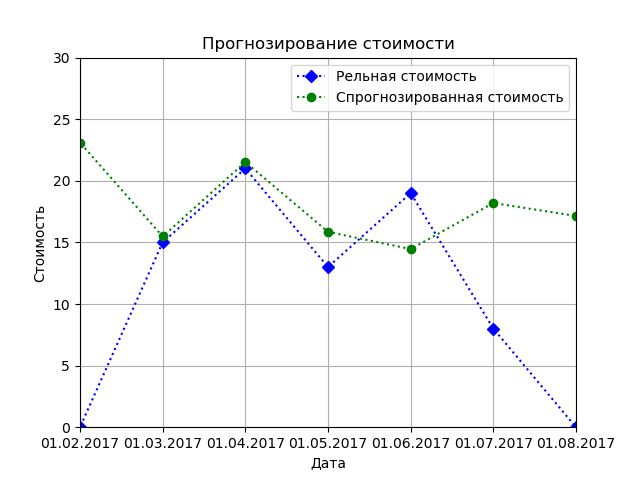
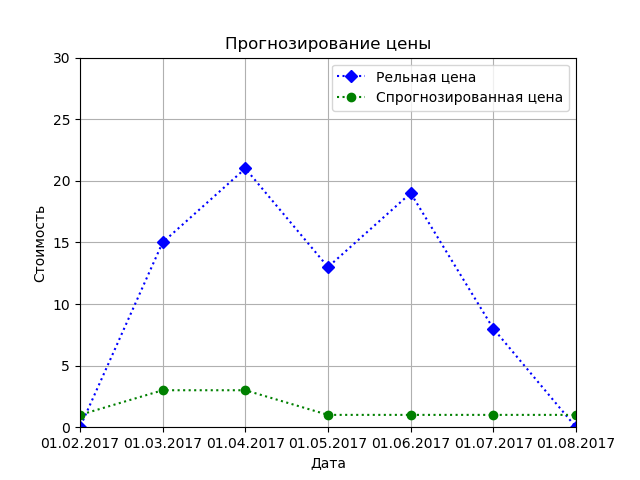
Вычисление ошибки, построение графиков влияющих факторов

diff --git a/templates/index.html b/templates/index.html
@@ -18,11 +18,15 @@
       <p>Файл успешно загружен</p>
       {% if option == '0' %}
         <p>Случайный лес</p>
+
       {% endif %}
       {% if option == '1' %}
         <p>Наивный Байес</p>
       {% endif %}
       <img src="{% static "img/forecast.png" %}">
+      <p>MAE: {{ err }}</p>
+      <img src="{% static "img/crop.png" %}">
+      <img src="{% static "img/temp.png" %}">
     {% endif %}
   </body>
 </html>

diff --git a/static/css/style.css b/static/css/style.css
@@ -6,4 +6,7 @@ form {
   background-color: #C1BCB4;
   border-radius: 5px;
   margin: 5px;
+  padding: 5px;
+  width: 300px;
+  height: 150px;
 }

diff --git a/firstapp/views.py b/firstapp/views.py
@@ -4,10 +4,7 @@ from django.conf import settings
 from django.core.files.storage import FileSystemStorage
 import csv
 import codecs
-from .result import read_file
-from .result import predicts_forest, predits_bayes
-from .result import get_date
-from .result import get_fact_cost
+from .result import read_file, predicts_forest, predits_bayes, get_date, get_fact_cost, mean_absolute_err, get_crop, get_temp
 import matplotlib.pyplot as plt
 
 def upload_file(request):
@@ -22,12 +19,20 @@ def upload_file(request):
             predict_cost = list(predicts_forest())
         else:
             predict_cost = list(predits_bayes())
+            predict_cost = [float(item) for item in predict_cost]
         output_date = get_date()
         fact_cost = get_fact_cost()
         fact_cost = [float(item) for item in fact_cost]
+        err = mean_absolute_err(fact_cost, predict_cost)
         graph(output_date, fact_cost, predict_cost, option)
+        crop = get_crop()
+        crop = [float(item) for item in crop]
+        graph_crop(output_date, crop)
+        temp = get_temp()
+        temp = [float(item) for item in temp]
+        graph_temp(output_date, temp)
         return render(request, 'index.html', {
-            'uploaded_file_url': uploaded_file_url, 'option': option
+            'uploaded_file_url': uploaded_file_url, 'option': option, 'err': err
         })
 
     return render(request, 'index.html')
@@ -35,10 +40,30 @@ def upload_file(request):
 def graph(X, Y1, Y2, option):
     line1, line2 = plt.plot(X, Y1, 'bD:', X, Y2, 'go:')
     plt.axis([1.0, 7.0, 0.0, 30.0])
-    plt.title(u'Прогнозирование стоимости')
+    plt.title(u'Прогнозирование цены')
     plt.xlabel(u'Дата')
     plt.ylabel(u'Стоимость')
-    plt.legend((line1, line2), (u'Рельная стоимость', u'Спрогнозированная стоимость'), loc = 'best')
+    plt.legend((line1, line2), (u'Рельная цена', u'Спрогнозированная цена'), loc = 'best')
     plt.grid()
     plt.savefig('D:/virtualenv/django/myenv/static/img/forecast.png', format = 'png')
+    plt.clf()
+def graph_crop(X, Y):
+    line1 = plt.plot(X, Y, 'bD:')
+    plt.axis([1.0, 7.0, 15.0, 40.0])
+    plt.title(u'Урожайность')
+    plt.xlabel(u'Дата')
+    plt.ylabel(u'Урожайность')
+    plt.legend((line1), (u'Урожайность'), loc = 'best')
+    plt.grid()
+    plt.savefig('D:/virtualenv/django/myenv/static/img/crop.png', format = 'png')
+    plt.clf()
+def graph_temp(X, Y):
+    line1 = plt.plot(X, Y, 'bD:')
+    plt.axis([1.0, 7.0, -10.0, 30.0])
+    plt.title(u'Температура')
+    plt.xlabel(u'Дата')
+    plt.ylabel(u'Температура')
+    plt.legend((line1), (u'Температура'), loc = 'best')
+    plt.grid()
+    plt.savefig('D:/virtualenv/django/myenv/static/img/temp.png', format = 'png')
     plt.clf()

diff --git a/firstapp/result.py b/firstapp/result.py
@@ -3,6 +3,7 @@ import codecs
 from sklearn.ensemble import RandomForestRegressor
 import numpy as np
 from sklearn.naive_bayes import GaussianNB
+from sklearn.metrics import mean_absolute_error
 
 revenue = []
 crop = []
@@ -15,6 +16,8 @@ x_train = []
 x_test = []
 date = []
 date_output = []
+crop_output = []
+temp_output = []
 
 def read_file(filename):
     x_train.clear()
@@ -28,6 +31,8 @@ def read_file(filename):
     cost_test.clear()
     date.clear()
     date_output.clear()
+    crop_output.clear()
+    temp_output.clear()
     path = 'D:/virtualenv/django/myenv' + filename
     with codecs.open(path, 'r', 'utf-8') as file:
         reader = csv.reader(file, delimiter = ',')
@@ -51,6 +56,8 @@ def read_file(filename):
     while index < len(revenue):
         buf = []
         date_output.append(date[index])
+        crop_output.append(crop[index])
+        temp_output.append(temp[index])
         buf.append(revenue[index])
         buf.append(crop[index])
         buf.append(temp[index])
@@ -73,3 +80,12 @@ def get_date():
     return date_output
 def get_fact_cost():
     return cost_test
+
+def mean_absolute_err(cost_test, predict_cost):
+    return mean_absolute_error(cost_test, predict_cost)
+
+def get_crop():
+    return crop_output
+
+def get_temp():
+    return temp_output
